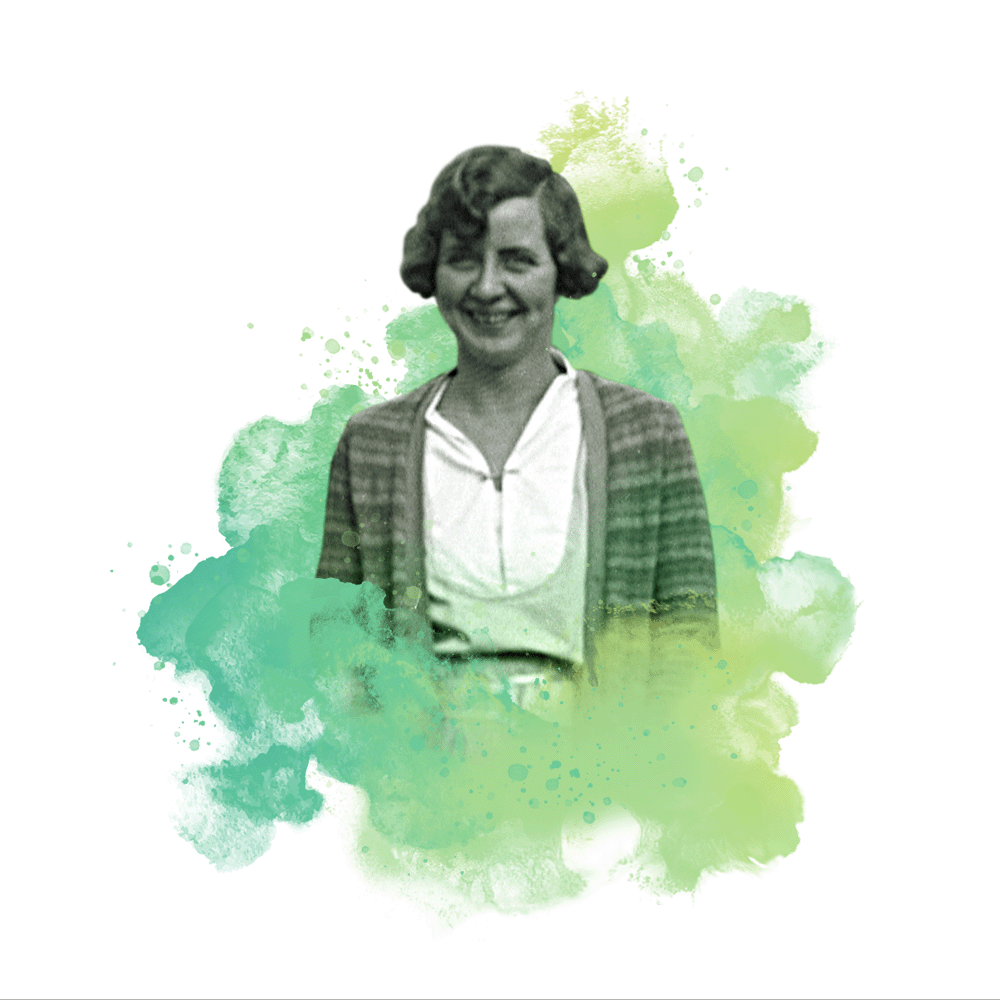
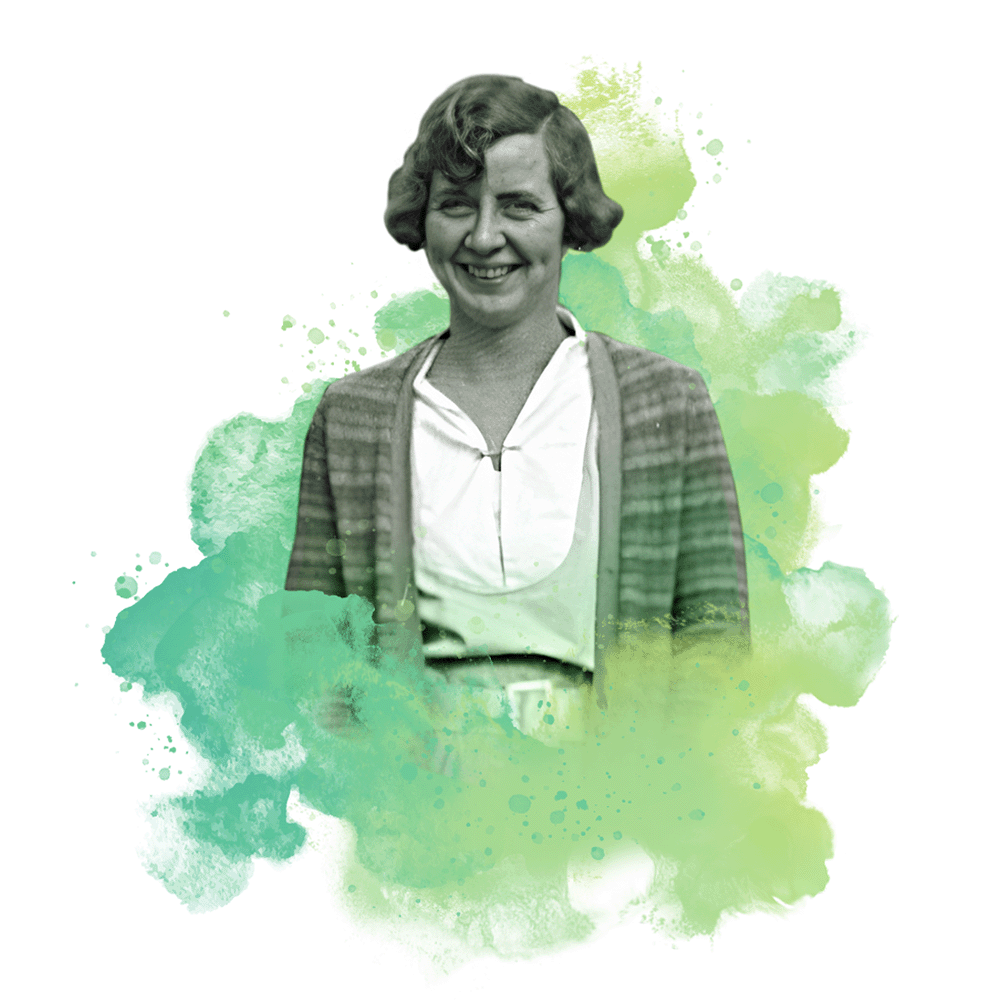
[BUG/FEAT] misc ui updates, new featured/browse page images, nvwl item render issue (#313)
* update citation label text on item page #310

* featured image / browse by creator image updates #311 #312

* fix render issue for nvwl items #315

Changed region(s): [[0.093, 0.062, 0.899, 0.961], [0.0, 0.992, 1.0, 1.0]]

diff --git a/services/fin/ucd-lib-client/client/public/elements/components/citation.js b/services/fin/ucd-lib-client/client/public/elements/components/citation.js
@@ -17,7 +17,8 @@ export class Citation extends LitElement {
       record: {type : Object},
       recordId: {type : String},
       citations : {type : Array},
-      selectedCitation : {type : Object}
+      selectedCitation : {type : Object},
+      citationTypeLabel : {type : String, attribute : 'citation-type-label'}
     };
   }
 
@@ -30,6 +31,7 @@ export class Citation extends LitElement {
     this.recordId = '';
     this.citations = [];
     this.selectedCitation = {};
+    this.citationTypeLabel = 'Collection';
     
   }
 

diff --git a/services/fin/ucd-lib-client/client/public/lib/models/BookReaderModel.js b/services/fin/ucd-lib-client/client/public/lib/models/BookReaderModel.js
@@ -222,7 +222,7 @@ class BookReaderModel extends BaseModel {
         originalHeight = parseInt(page?.original?.size?.height || page?.large?.size?.height);
         originalWidth = parseInt(page?.original?.size?.width || page?.large?.size?.width);
         scale = width / originalWidth;
-        filename = page['@id'].split('/').pop()
+        filename = page['@id']?.split('/').pop()
         return {height, width, imageUrl, scale, ocrUrl, index, originalHeight, originalWidth, page: page.page, filename};
     });
 

diff --git a/services/fin/ucd-lib-client/client/public/elements/pages/record/viewer/app-media-viewer.js b/services/fin/ucd-lib-client/client/public/elements/pages/record/viewer/app-media-viewer.js
@@ -162,7 +162,7 @@ export default class AppMediaViewer extends Mixin(LitElement)
     }
 
     // single page images should use normal image viewer
-    if( (mediaGroup?.['@shortType'] || []).includes('ImageObject') || mediaGroup?.clientMedia?.pages?.length === 1 ) {
+    if( renderAsBr && mediaGroup?.clientMedia?.pages?.length === 1 ) {
       renderAsBr = false;
       mediaType = 'image';
     }

diff --git a/services/fin/ucd-lib-client/client/public/elements/components/citation.tpl.js b/services/fin/ucd-lib-client/client/public/elements/components/citation.tpl.js
@@ -152,7 +152,7 @@ return html`
     <img src="/images/watercolors/citation-watercolor-800px-landscape.png" width="100%" alt="cite this collection image" />
   </div>
   <div class="cite-collection">
-    <h2>Cite This Collection</h2>
+    <h2>Cite This ${this.citationTypeLabel}</h2>
 
     ${ SharedHtml.headerDots() }
 

diff --git a/services/fin/ucd-lib-client/client/public/elements/pages/record/app-record.tpl.js b/services/fin/ucd-lib-client/client/public/elements/pages/record/app-record.tpl.js
@@ -412,6 +412,6 @@ export default function render() {
       </div>
     </div>
 
-    <app-citation .record="${this.citationRoot}"></app-citation>
+    <app-citation .record="${this.citationRoot}" citation-type-label="Item"></app-citation>
   `;
 }
